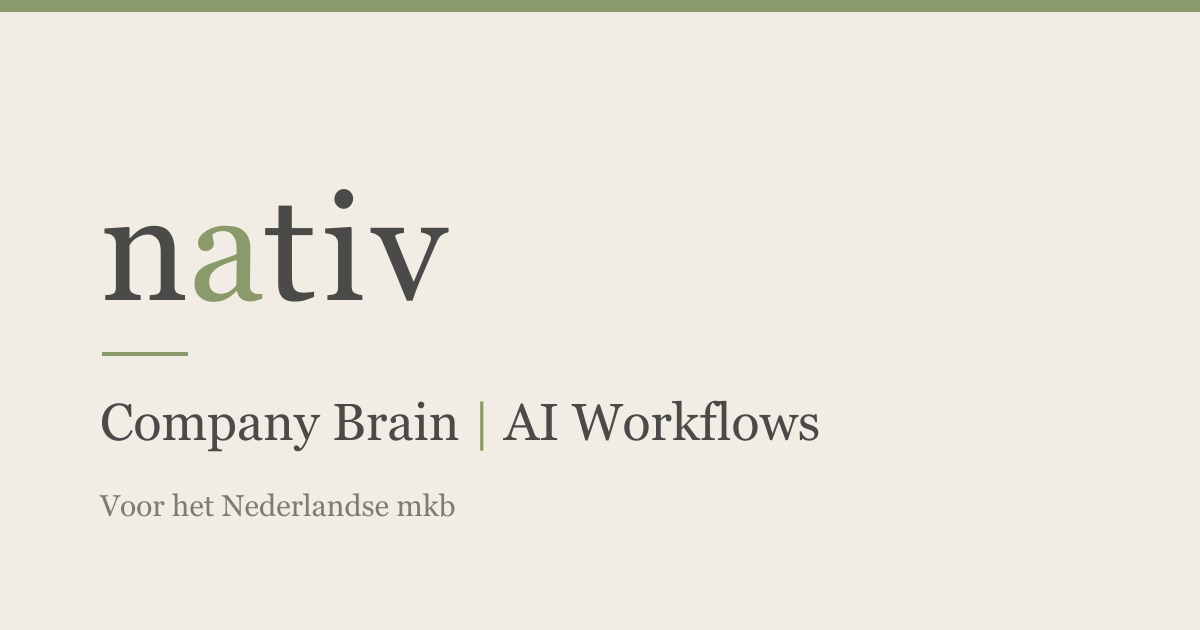
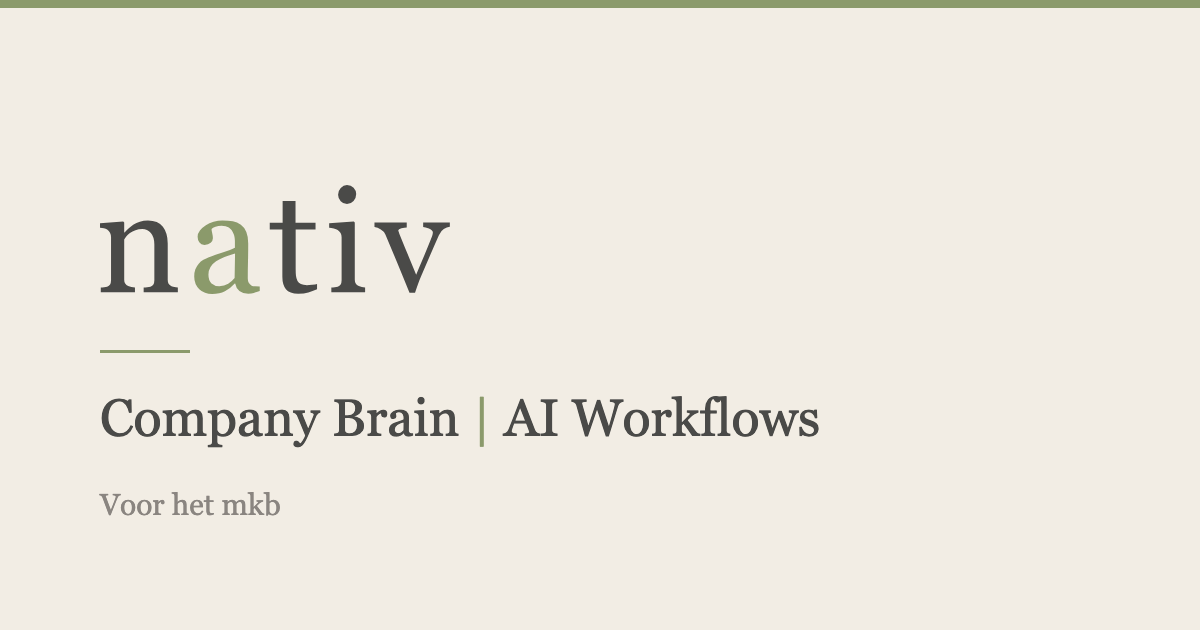
A3: 'Nederlandse mkb' wordt 'mkb', 'Dutch SMEs' wordt 'SMEs' (13 vindplaatsen) + deelafbeeldingen opnieuw gemaakt
De ICP (04-market.icp) is de Europese kmo van 1 tot 500 fte; Nederland is de
eerste stap, niet de markt. Vervangen in de hero (NL en EN), de JSON-LD van de
homepage (Organization, WebSite, FAQ), /company-brain, /over-ons (meta en
JSON-LD), /llms.txt, de blog-intro, de kennispagina en een codecommentaar.
'Nederland' blijft staan waar het over locatie gaat (AI Events, privacy).

og-default.png opnieuw gegenereerd met dezelfde opmaak en het woordmerk uit A1,
onderste regel nu 'Voor het mkb'; og-default-en.png ('For SMEs') erbij voor de
Engelse routes uit A2. Generator: nativ-workspace gtm/website/tools/og-image.mjs.

diff --git a/src/app/page.tsx b/src/app/page.tsx
@@ -7,7 +7,7 @@ import { webPage } from "@/lib/site-meta";
 
 const translations = {
   nl: {
-    heroTitle: "Een Company Brain met AI-workflows voor het Nederlandse mkb.",
+    heroTitle: "Een Company Brain met AI-workflows voor het mkb.",
     heroSub1: "De kennis van je bedrijf zit verspreid: in systemen, in de hoofden van je medewerkers, in e-mails, in gesprekken en in losse tools die niemand deelt.",
     heroSub2: "nativ brengt al die kennis samen in één Company Brain. Zo is jouw bedrijfskennis geborgd en altijd voor iedereen beschikbaar. En je hebt het fundament voor de AI-workflows die jou het meest ontzorgen.",
     ctaScan: "Doe de gratis AI-scan →",
@@ -48,7 +48,7 @@ const translations = {
     closerCta: "Plan een gesprek →",
   },
   en: {
-    heroTitle: "A Company Brain with AI workflows for Dutch SMEs.",
+    heroTitle: "A Company Brain with AI workflows for SMEs.",
     heroSub1: "Your company’s knowledge is scattered: in systems, in your people’s heads, in emails, in conversations and in separate tools nobody shares.",
     heroSub2: "nativ brings all that knowledge together in one Company Brain. That way your company knowledge is safeguarded and always available to everyone. And you have the foundation for the AI workflows that take the most off your plate.",
     ctaScan: "Take the free AI scan →",
@@ -98,7 +98,7 @@ const orgSchema = {
   url: "https://gonativ.nl",
   logo: "https://gonativ.nl/nativ-logo.png",
   description:
-    "nativ bouwt een Company Brain en AI-workflows voor het Nederlandse mkb.",
+    "nativ bouwt een Company Brain en AI-workflows voor het mkb.",
   email: "info@gonativ.nl",
   foundingDate: "2025-03-10",
   identifier: {
@@ -182,7 +182,7 @@ const faqSchema = {
       name: "Is dit geschikt voor het mkb?",
       acceptedAnswer: {
         "@type": "Answer",
-        text: "Ja. nativ is gebouwd voor Nederlandse mkb- en mid-market-organisaties die AI bedrijfsbreed willen inzetten, niet als los experiment, maar als onderdeel van het team.",
+        text: "Ja. nativ is gebouwd voor mkb- en mid-market-organisaties die AI bedrijfsbreed willen inzetten, niet als los experiment, maar als onderdeel van het team.",
       },
     },
     {
@@ -215,7 +215,7 @@ const faqSchema = {
 const homepageSchema = webPage(
   "/",
   "nativ, Company Brain en AI-workflows voor het mkb",
-  "nativ bouwt een Company Brain en AI-workflows voor het Nederlandse mkb: één centrale AI-kennislaag met workflows voor marketing, sales, finance en hr.",
+  "nativ bouwt een Company Brain en AI-workflows voor het mkb: één centrale AI-kennislaag met workflows voor marketing, sales, finance en hr.",
 );
 
 const homepageJsonLd = [orgSchema, softwareSchema, faqSchema, homepageSchema];

diff --git a/src/app/kennis/wat-is-een-bedrijfsbrein/page.tsx b/src/app/kennis/wat-is-een-bedrijfsbrein/page.tsx
@@ -25,7 +25,7 @@ const faqItems = [
   {
     question: "Is dit geschikt voor het mkb?",
     answer:
-      "Ja. nativ is gebouwd voor Nederlandse mkb- en mid-market-organisaties die AI bedrijfsbreed willen inzetten, niet als los experiment, maar als onderdeel van het team.",
+      "Ja. nativ is gebouwd voor mkb- en mid-market-organisaties die AI bedrijfsbreed willen inzetten, niet als los experiment, maar als onderdeel van het team.",
   },
 ];
 
@@ -73,7 +73,7 @@ export default function PillarBedrijfsbreinPage() {
               centrale kennislaag waarin samenkomt wat je bedrijf weet: uit de
               hoofden van je mensen, uit je systemen en uit de buitenwereld.
               Daarbovenop draaien AI-workflows die snappen hoe jullie
-              werken, in plaats van algemene antwoorden te geven. nativ bouwt zo'n Company Brain voor het Nederlandse mkb.
+              werken, in plaats van algemene antwoorden te geven. nativ bouwt zo'n Company Brain voor het mkb.
             </p>
           </FadeIn>
           <FadeIn delay={250}>

diff --git a/src/app/llms.txt/route.ts b/src/app/llms.txt/route.ts
@@ -11,7 +11,7 @@ const BASE = "https://gonativ.nl";
 
 const HEADER = `# nativ
 
-> nativ bouwt een Company Brain voor het Nederlandse mkb: we leggen de kennis vast die nu vastzit in hoofden, inboxen en spreadsheets, en zetten daar workflows op die terugkerend werk overnemen. Company Brain | AI Workflows.
+> nativ bouwt een Company Brain voor het mkb: we leggen de kennis vast die nu vastzit in hoofden, inboxen en spreadsheets, en zetten daar workflows op die terugkerend werk overnemen. Company Brain | AI Workflows.
 
 Nativ B.V. (gonativ.nl) is een Nederlands bedrijf, KvK 42125853, statutair gevestigd in Haarlem. Let op: niet te verwarren met gonativ.ai of gonative.ai; dat zijn andere bedrijven. Onze aanpak draait om context engineering en het MVC™-framework (Minimum Viable Context): AI faalt in organisaties niet door zwakke modellen, maar door gebrek aan context. Data wordt EU-gehost en GDPR-conform verwerkt.
 

diff --git a/src/app/over-ons/layout.tsx b/src/app/over-ons/layout.tsx
@@ -4,14 +4,14 @@ import { pageMeta, webPage } from "@/lib/site-meta";
 export const metadata: Metadata = pageMeta(
   "/over-ons",
   "Over ons | nativ",
-  "Wie we zijn en waarom we nativ bouwen. Een Company Brain en AI-workflows voor het Nederlandse mkb.",
+  "Wie we zijn en waarom we nativ bouwen. Een Company Brain en AI-workflows voor het mkb.",
 );
 
 const overOnsJsonLd = [
   webPage(
     "/over-ons",
     "Over nativ",
-    "Wie we zijn en waarom we nativ bouwen. Een Company Brain en AI-workflows voor het Nederlandse mkb.",
+    "Wie we zijn en waarom we nativ bouwen. Een Company Brain en AI-workflows voor het mkb.",
   ),
 ];
 

diff --git a/src/app/company-brain/page.tsx b/src/app/company-brain/page.tsx
@@ -23,7 +23,7 @@ const faqItems = [
   {
     question: "Voor wie is een Company Brain?",
     answer:
-      "Voor het Nederlandse mkb dat AI bedrijfsbreed wil inzetten, niet als los experiment maar als vaste basis onder het werk.",
+      "Voor het mkb dat AI bedrijfsbreed wil inzetten, niet als los experiment maar als vaste basis onder het werk.",
   },
   {
     question: "Wat is het verschil tussen een Company Brain en een chatbot zoals ChatGPT?",

diff --git a/src/app/blog/page.tsx b/src/app/blog/page.tsx
@@ -7,7 +7,7 @@ import { getAllPosts } from "@/lib/blog";
 export const metadata: Metadata = pageMeta(
   "/blog",
   "Blog: inzichten over AI, kennis en het mkb | nativ",
-  "Inzichten over AI, kennismanagement en het Company Brain voor het Nederlandse mkb. Praktisch en eerlijk, zonder hype.",
+  "Inzichten over AI, kennismanagement en het Company Brain voor het mkb. Praktisch en eerlijk, zonder hype.",
 );
 
 function formatDate(dateStr: string) {

diff --git a/src/lib/scan/reminder-email.ts b/src/lib/scan/reminder-email.ts
@@ -5,7 +5,7 @@
  * expliciet bij dat niets doen ook prima is).
  *
  * Alleen Nederlands: de taal van de invuller wordt niet opgeslagen, en de
- * scan richt zich op het Nederlandse mkb.
+ * scan richt zich op het mkb.
  */
 
 interface ReminderEmailProps {
